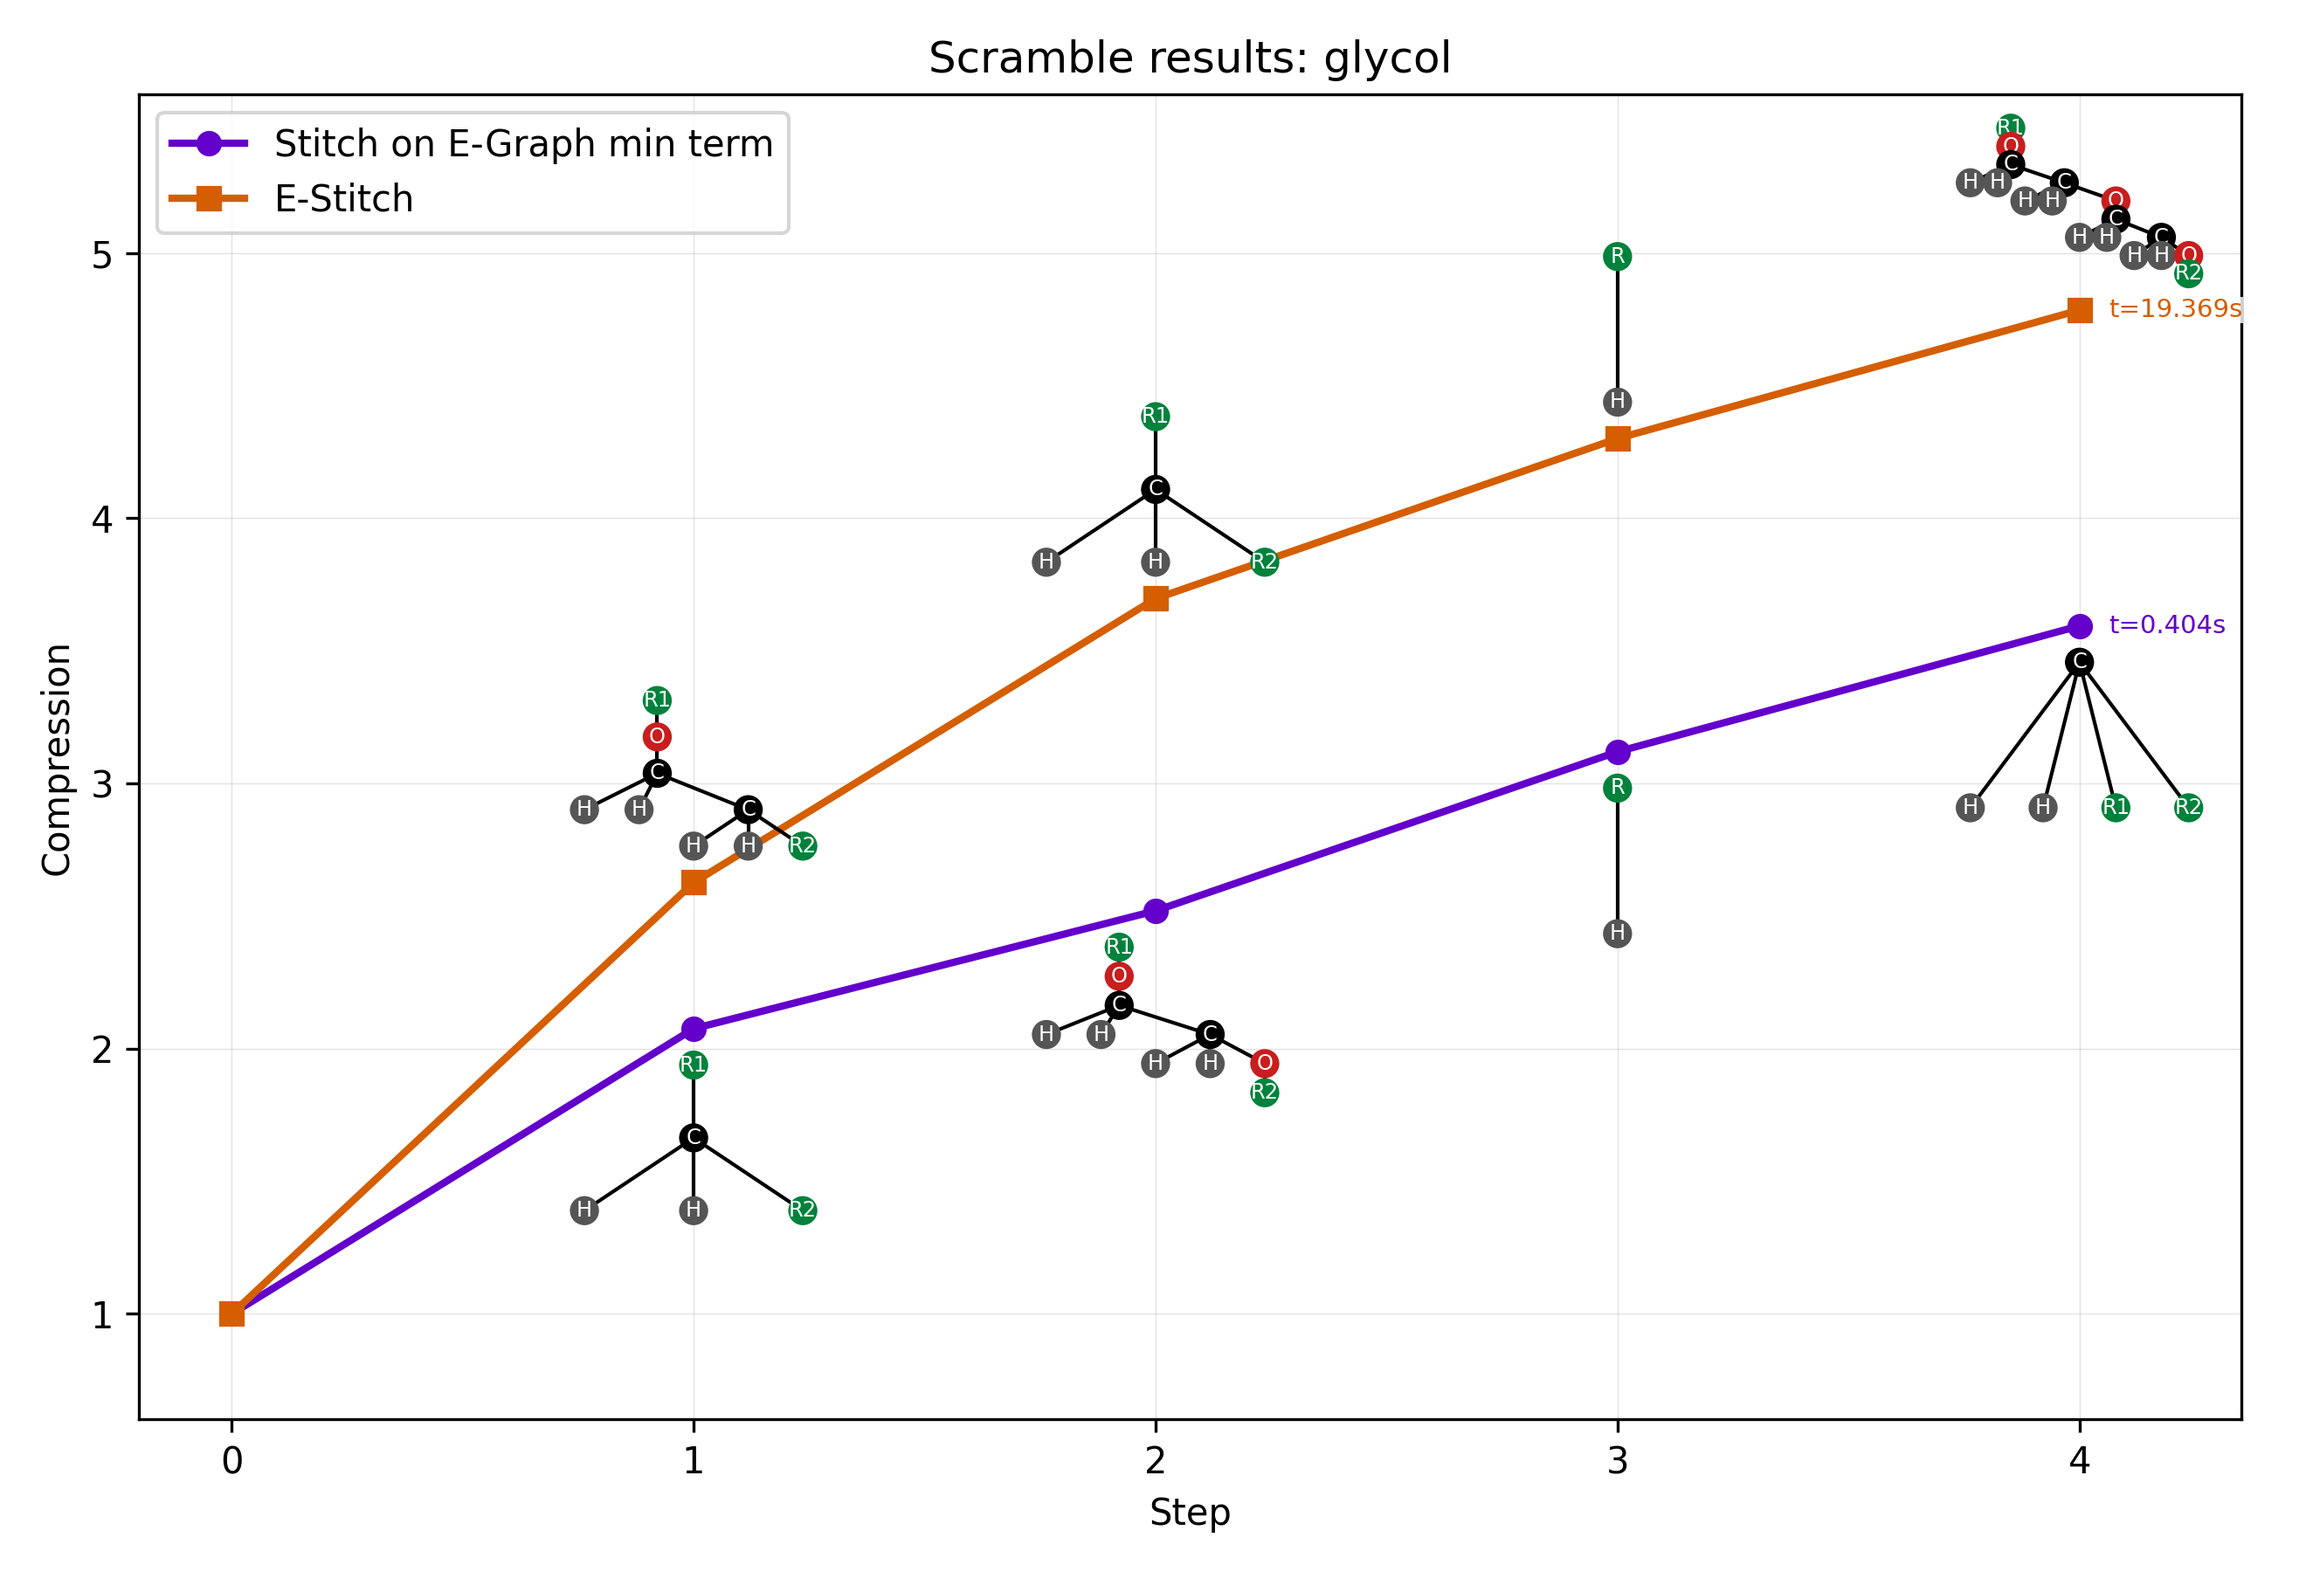
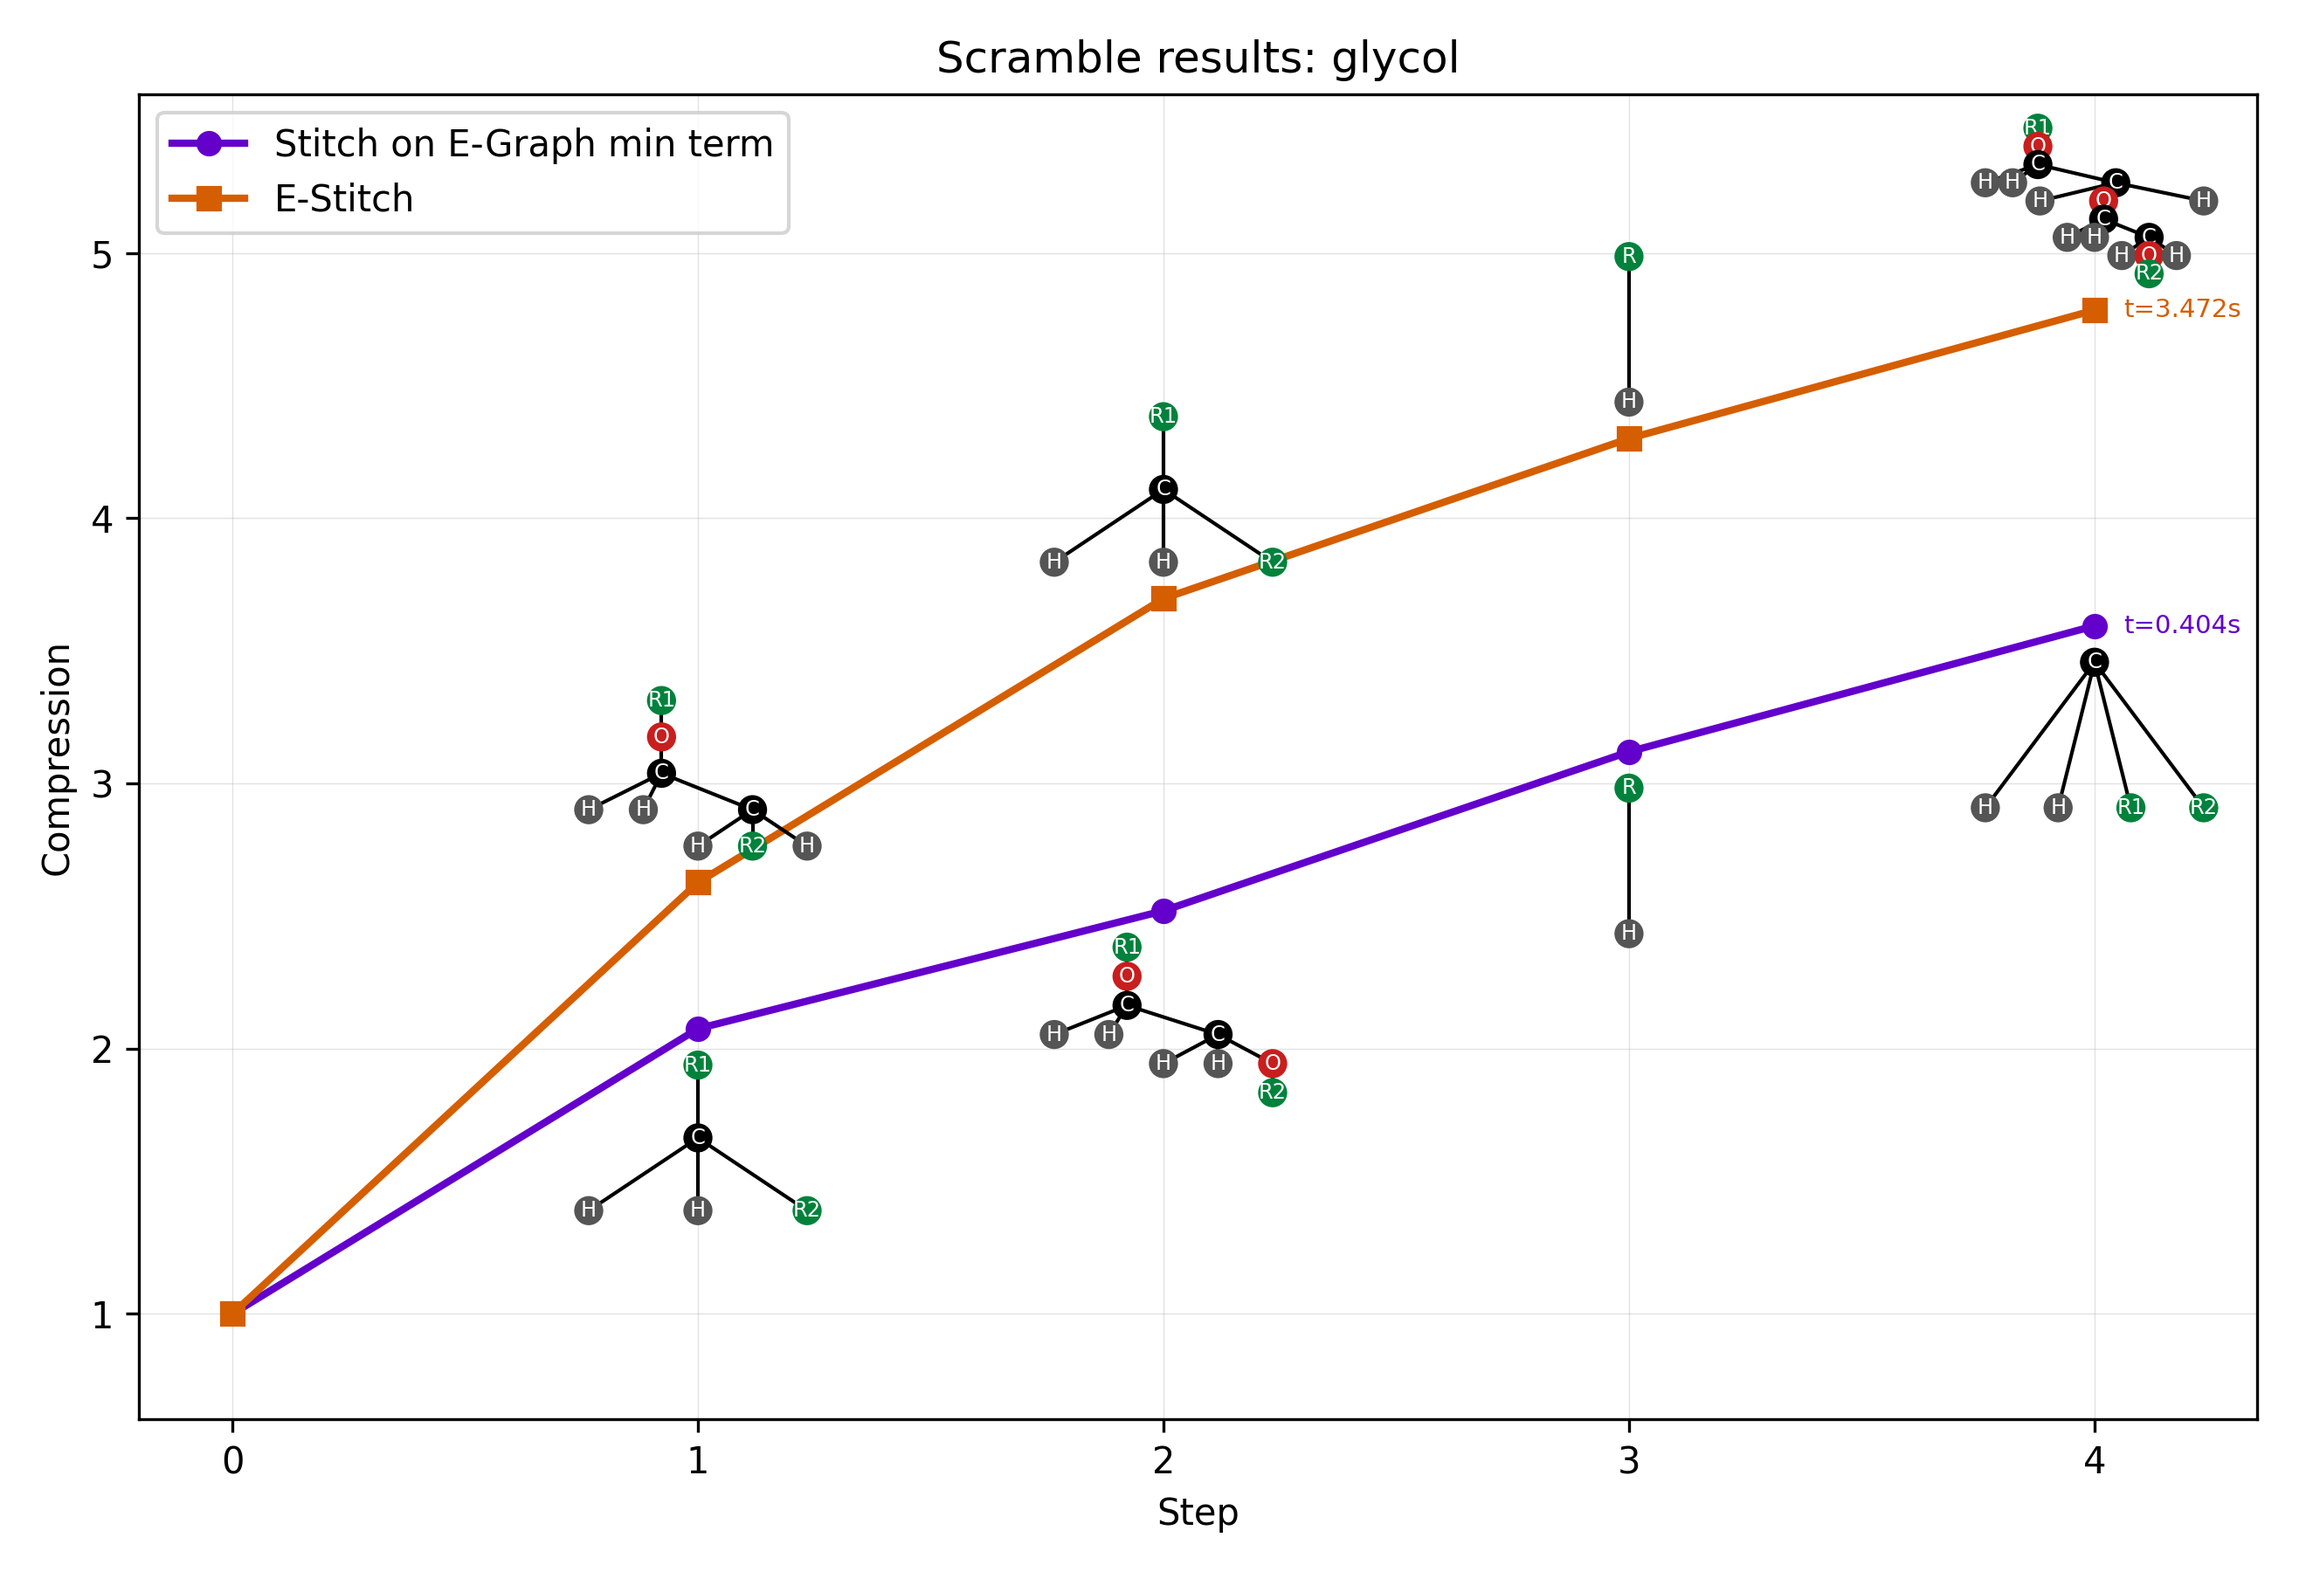
Molecules diagrams from SMC (#277)

diff --git a/scripts/render_molecules.py b/scripts/render_molecules.py
@@ -8,7 +8,8 @@ per-iteration cost trajectory this renderer draws:
   ``enum-dsrs-at-start`` -- DSRs canonicalise the egraph once, then search
                             runs rule-free (the "Stitch on E-graph min term"
                             baseline);
-  ``enum-100000``        -- DSRs kept live during search (E-Stitch).
+  ``smc-1000``           -- DSRs kept live during search (E-Stitch), with the
+                            SMC sampler at the canonical 1000-particle point.
 
 Each family gets its own figure, with compression ratio on the y axis and
 step number on the x axis. Step 0 is the normalized starting point
@@ -30,7 +31,7 @@ import numpy as np
 
 PROJECT_ROOT = Path(__file__).resolve().parent.parent
 sys.path.insert(0, str(PROJECT_ROOT))
-from expts.tables import TABLE5_DOMAINS, TABLE5_ENUM_POINT  # noqa: E402
+from expts.tables import TABLE5_DOMAINS, TABLE5_SMC_POINT  # noqa: E402
 
 RESULTS_PATH = PROJECT_ROOT / "results" / "table5.json"
 DEFAULT_OUT_DIR = PROJECT_ROOT / "figures" / "molecules"
@@ -39,7 +40,7 @@ DEFAULT_MAX_STEP = 4
 # Logical method name -> the table5 method key holding its run data.
 METHOD_DATA_KEY = {
     "DSR-canon": "enum-dsrs-at-start",
-    "search-DSR": f"enum-{TABLE5_ENUM_POINT}",
+    "search-DSR": f"smc-{TABLE5_SMC_POINT}",
 }
 METHODS = ("DSR-canon", "search-DSR")
 METHOD_COLORS = {

diff --git a/expts/tables.py b/expts/tables.py
@@ -228,6 +228,9 @@ TABLE5_NUM_ABSTRACTIONS = 4
 # operating point for this domain.
 TABLE5_BFS_SWEEP = BFS_STEP_SWEEP + (100_000,)
 TABLE5_ENUM_POINT = 100_000
+# Representative SMC operating point for this domain (matches the canonical
+# ``TABLE_SMC_PARTICLES`` point used by the tables renderer).
+TABLE5_SMC_POINT = 1_000
 
 
 def _table5_runners() -> tuple[tuple[str, object], ...]:
